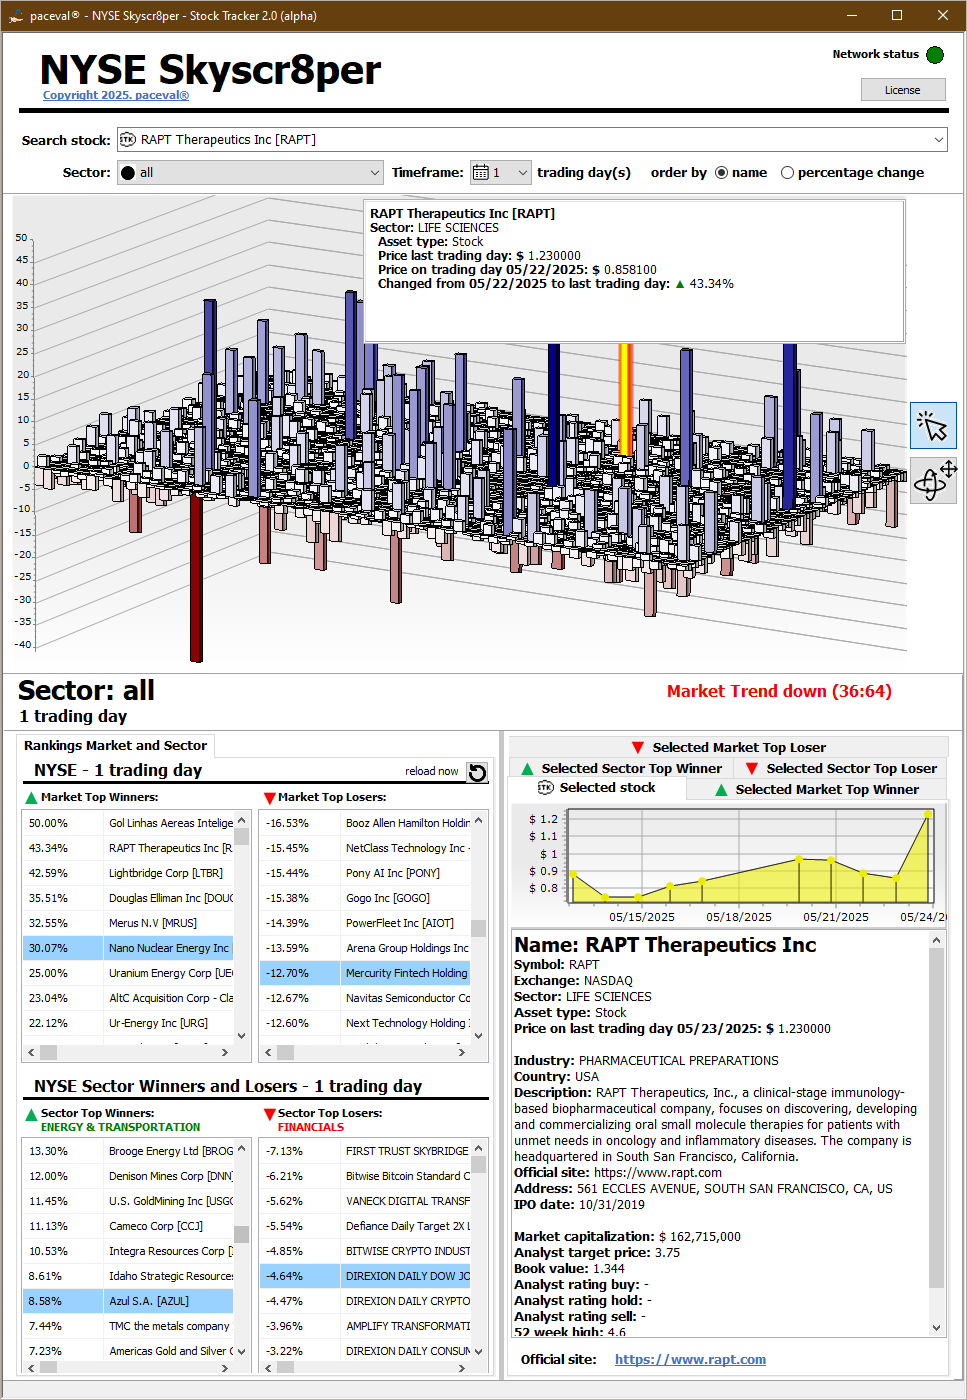
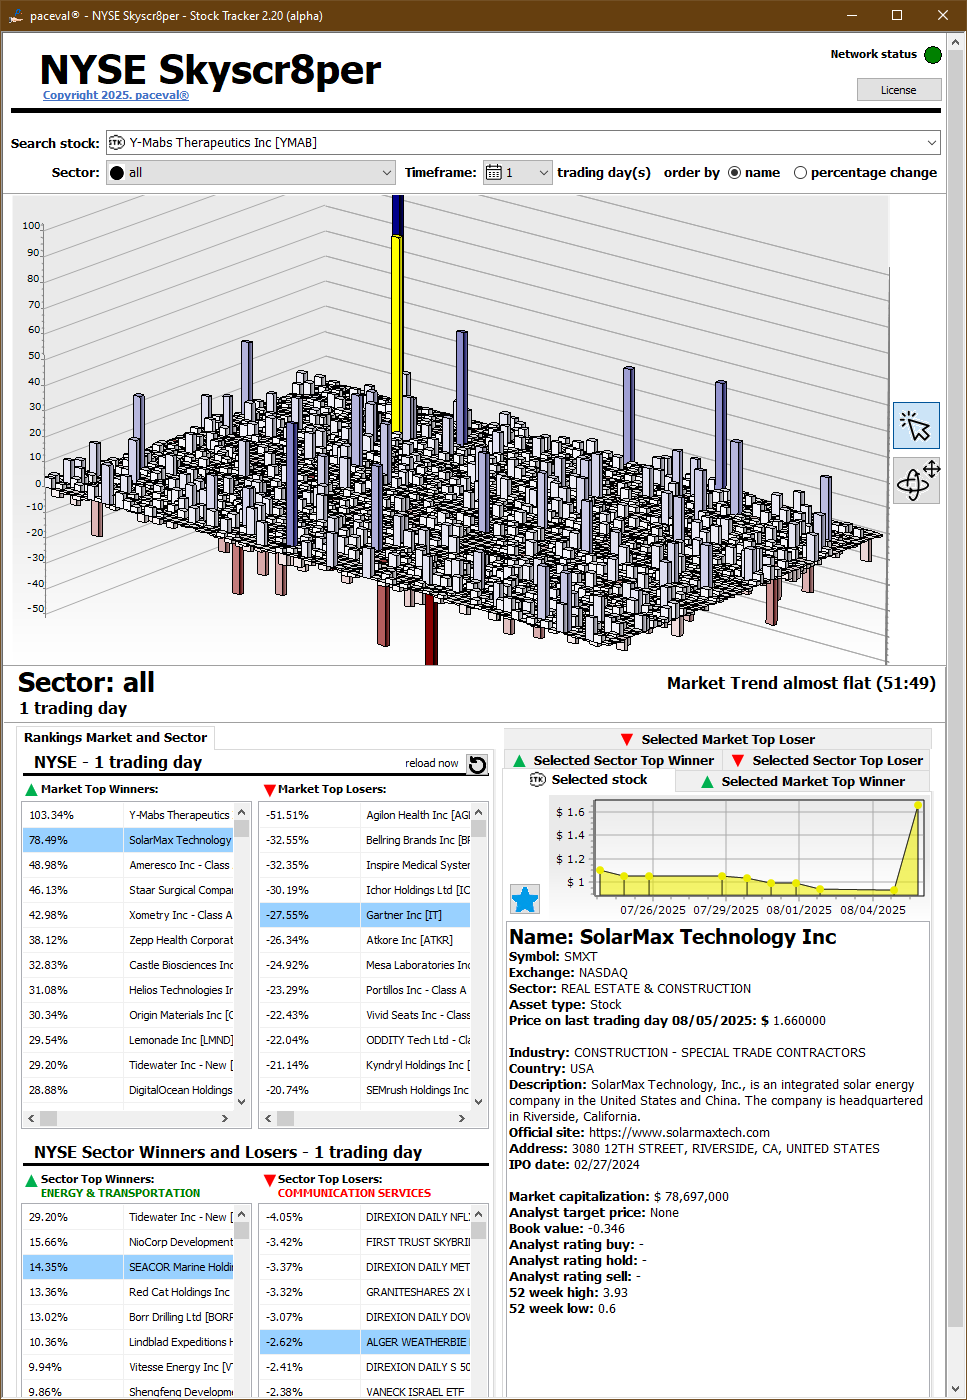
Update Skyscr8per – Stock Tracker 2.20 alpha

diff --git a/new projects/Skyscr8per – Stock Tracker/readme.md b/new projects/Skyscr8per – Stock Tracker/readme.md
@@ -1,6 +1,6 @@
 # 🏙 NYSE Skyscr8per – A New Perspective on the Market
 
-**Version:** 2.07 alpha  
+**Version:** 2.20 alpha  
 **License:** Single-user demo license ($20)  
 **Website:** [paceval.com/skyscr8per](https://paceval.com/skyscr8per)  
 **Contact:** info@paceval.com  
@@ -11,12 +11,13 @@
 
 **NYSE Skyscr8per** is a cutting-edge visualization tool that lets you **see the entire New York Stock Exchange in one immersive view**.
 
-This technology demo transforms traditional financial data into **a spatial experience** — intuitive, interactive, and instantly comprehensible.
+This technology demo transforms traditional financial data into **a spatial experience** - intuitive, interactive, and instantly comprehensible.
 
 ---
 
 ## ✨ Features
 
+✅ **Favorites sector** - collect and track selected stocks in a personalized view
 ✅ **3D Visualization** of all stocks and ETFs listed on the NYSE  
 ✅ **Day-to-day price change tracking** across the full market  
 ✅ **Interactive rankings** of top gainers and losers (by market or sector)  
@@ -24,7 +25,7 @@ This technology demo transforms traditional financial data into **a spatial expe
 ✅ **Market trend analysis** over short or long timeframes (1–250 trading days)  
 ✅ **Dynamic sector filtering** (e.g. Tech, Energy, Financials, etc.)  
 ✅ **Flexible sorting** by name or % change  
-✅ **Visual clarity** of what’s moving — and who’s driving the movement  
+✅ **Visual clarity** of what’s moving - and who’s driving the movement  
 
 ---
 
@@ -55,9 +56,10 @@ This app is part of an **ongoing technology demonstration** by [paceval®](https
 
 ## 📥 Latest Release
 
-👉 **[Download v2.07 alpha](https://github.com/paceval/paceval/tree/main/new%20projects/Skyscr8per%20%E2%80%93%20Stock%20Tracker)**  
-Release date: *14th of July 2025*  
+👉 **[Download v2.20 alpha](https://github.com/paceval/paceval/tree/main/new%20projects/Skyscr8per%20%E2%80%93%20Stock%20Tracker)**  
+Release date: *7th of August 2025*  
 Includes:
+- Added favorites sector 
 - Performance improvements for large sector sets
 - Optimized user interface for small sector sets
 - Small bugfixes
